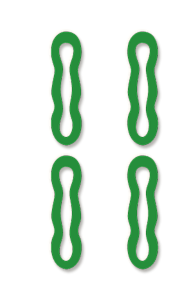
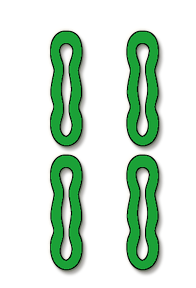
Polish tile symbols and AI marker for 1.0.14

Changed region(s): [[0.2449, 0.0938, 0.4592, 0.9688], [0.6429, 0.0938, 0.8571, 0.9688]]

diff --git a/tools/generate_cartoon_tile_symbols.py b/tools/generate_cartoon_tile_symbols.py
@@ -16,29 +16,82 @@ from PIL import Image, ImageEnhance, ImageFilter
 ROOT = Path(__file__).resolve().parents[1]
 SOURCE_DIR = ROOT / "res/art/tiles"
 OUT_DIR = ROOT / "res/art/ui_3d_cartoon/tile_symbols"
-CONTACT_SHEET = ROOT / "docs/ui_baseline/mockups/tile_symbols_v1_contact_sheet.png"
+CONTACT_SHEET = ROOT / "docs/ui_baseline/mockups/tile_symbols_v1_0_14_contact_sheet.png"
 SYMBOL_SIZE = (196, 288)
 SUITS = ("tiao", "tong", "wan")
+SUIT_PARAMS = {
+	"tiao": {
+		"thicken": 3,
+		"alpha": 1.18,
+		"color": 1.08,
+		"contrast": 1.05,
+		"glow": 0.20,
+		"shadow": 0.38,
+		"highlight": 0.18,
+		"rim": (32, 100, 42, 0),
+	},
+	"tong": {
+		"thicken": 3,
+		"alpha": 1.15,
+		"color": 1.10,
+		"contrast": 1.08,
+		"glow": 0.18,
+		"shadow": 0.36,
+		"highlight": 0.16,
+		"rim": (36, 78, 120, 0),
+	},
+	"wan": {
+		"thicken": 5,
+		"alpha": 1.22,
+		"color": 1.06,
+		"contrast": 1.10,
+		"glow": 0.16,
+		"shadow": 0.42,
+		"highlight": 0.16,
+		"rim": (110, 30, 44, 0),
+	},
+}
 
 
-def soften_symbol(source_path: Path) -> Image.Image:
+def _mask(alpha: Image.Image, multiplier: float, blur: float = 0.0) -> Image.Image:
+	mask = alpha.filter(ImageFilter.GaussianBlur(blur)) if blur > 0.0 else alpha
+	return mask.point(lambda value: min(255, int(value * multiplier)))
+
+
+def soften_symbol(source_path: Path, suit: str) -> Image.Image:
+	params = SUIT_PARAMS[suit]
 	source = Image.open(source_path).convert("RGBA").resize(SYMBOL_SIZE, Image.Resampling.LANCZOS)
 	r, g, b, alpha = source.split()
 
-	soft_alpha = alpha.filter(ImageFilter.GaussianBlur(0.35)).point(lambda value: min(255, int(value * 1.12)))
+	expanded_alpha = alpha.filter(ImageFilter.MaxFilter(int(params["thicken"])))
+	soft_alpha = expanded_alpha.filter(ImageFilter.GaussianBlur(0.25)).point(
+		lambda value: min(255, int(value * float(params["alpha"])))
+	)
 	symbol = Image.merge("RGBA", (r, g, b, soft_alpha))
-	symbol = ImageEnhance.Color(symbol).enhance(0.92)
-	symbol = ImageEnhance.Contrast(symbol).enhance(0.96)
+	symbol = ImageEnhance.Color(symbol).enhance(float(params["color"]))
+	symbol = ImageEnhance.Contrast(symbol).enhance(float(params["contrast"]))
 
 	glow = Image.new("RGBA", SYMBOL_SIZE, (255, 235, 190, 0))
-	glow.putalpha(soft_alpha.filter(ImageFilter.GaussianBlur(1.4)).point(lambda value: int(value * 0.26)))
+	glow.putalpha(_mask(soft_alpha, float(params["glow"]), 1.8))
 
-	shadow = Image.new("RGBA", SYMBOL_SIZE, (30, 25, 15, 0))
-	shadow.putalpha(soft_alpha.filter(ImageFilter.GaussianBlur(1.2)).point(lambda value: int(value * 0.32)))
+	contact_shadow = Image.new("RGBA", SYMBOL_SIZE, (28, 24, 16, 0))
+	contact_shadow.putalpha(_mask(soft_alpha, float(params["shadow"]), 1.35))
+
+	pressed_shadow = Image.new("RGBA", SYMBOL_SIZE, (52, 42, 24, 0))
+	pressed_shadow.putalpha(_mask(expanded_alpha, 0.20, 0.45))
+
+	rim = Image.new("RGBA", SYMBOL_SIZE, tuple(params["rim"]))
+	rim.putalpha(_mask(expanded_alpha, 0.24, 0.15))
+
+	highlight = Image.new("RGBA", SYMBOL_SIZE, (255, 250, 210, 0))
+	highlight.putalpha(_mask(alpha, float(params["highlight"]), 0.35))
 
 	composed = Image.new("RGBA", SYMBOL_SIZE, (0, 0, 0, 0))
-	composed.alpha_composite(shadow, (2, 3))
+	composed.alpha_composite(contact_shadow, (3, 4))
+	composed.alpha_composite(pressed_shadow, (1, 2))
 	composed.alpha_composite(glow, (-1, -1))
+	composed.alpha_composite(highlight, (-1, -2))
+	composed.alpha_composite(rim, (1, 1))
 	composed.alpha_composite(symbol)
 	return composed
 
@@ -61,7 +114,7 @@ def main() -> None:
 	OUT_DIR.mkdir(parents=True, exist_ok=True)
 	for suit in SUITS:
 		for rank in range(1, 10):
-			soften_symbol(SOURCE_DIR / f"{suit}_{rank}.png").save(OUT_DIR / f"{suit}_{rank}.png")
+			soften_symbol(SOURCE_DIR / f"{suit}_{rank}.png", suit).save(OUT_DIR / f"{suit}_{rank}.png")
 	build_contact_sheet()
 	print(f"generated {OUT_DIR}")
 	print(f"contact_sheet {CONTACT_SHEET}")

diff --git a/docs/ui_baseline/UX_REFINEMENT_TARGET_AND_PROGRESS.md b/docs/ui_baseline/UX_REFINEMENT_TARGET_AND_PROGRESS.md
@@ -2,7 +2,7 @@
 
 > 状态：执行中  
 > 首版日期：2026-05-11  
-> 当前版本：1.0.13
+> 当前版本：1.0.14
 > 目标界面：主牌桌对局界面  
 > 设计方向：3D 卡通轻奢质感 Mahjong UI  
 > 执行原则：保留已校准布局，逐步资产化和统一视觉系统，每次版本更新后检查目标完成度并继续推进未完成任务。
@@ -32,18 +32,18 @@
 
 | 维度 | 目标标准 | 当前完成度 |
 |---|---|---:|
-| 布局稳定性 | 现有四家牌区、碰杠、胡牌、弃牌、按钮位置不被破坏，布局合同测试通过 | 84% |
+| 布局稳定性 | 现有四家牌区、碰杠、胡牌、弃牌、按钮位置不被破坏，布局合同测试通过 | 85% |
 | 桌面统一性 | 无明显分区底色/边框；桌面有连续绒布纹理、中心光、暗角，但无抢眼装饰线 | 72% |
 | 麻将牌本体 | 厚牌圆角、暖象牙牌面、绿色侧边、统一投影；正背面同一资产体系 | 73% |
-| 正面牌纹 | 条、筒、万、幺鸡等符号与新牌底同风格，线条柔和清晰，不像旧贴图 | 56% |
+| 正面牌纹 | 条、筒、万、幺鸡等符号与新牌底同风格，线条柔和清晰，不像旧贴图 | 64% |
 | 牌背 | 素玉牌背与桌面有足够分离度，无旧圈纹，阴影统一 | 76% |
 | 玩家信息 HUD | 贴边、清晰、弱面板化；字体、头像/定缺、分数、已胡状态统一 | 62% |
 | 操作按钮 | 右上/动作按钮采用同系列 3D 果冻/玉石按钮，触控目标清晰 | 64% |
-| AI 提示 | 提示框居中、大字、只显示内容；推荐牌用悬浮 3D 标记，不遮挡读牌 | 70% |
-| 可访问性 | 手机横屏玩家名/分数/状态可读；关键文字对比度足够，不仅靠颜色表达状态 | 68% |
+| AI 提示 | 提示框居中、大字、只显示内容；推荐牌用悬浮 3D 标记，不遮挡读牌 | 74% |
+| 可访问性 | 手机横屏玩家名/分数/状态可读；关键文字对比度足够，不仅靠颜色表达状态 | 69% |
 | 启动图一致性 | 整体材质、光照、圆润度、颜色气质接近启动界面 | 60% |
 
-当前综合完成度：约 73%。
+当前综合完成度：约 75%。
 达到 100% 的判定：上表所有维度均不低于 90%，且用户截图评审确认「整体接近预期效果」。
 
 ## 4. 执行步骤
@@ -166,15 +166,16 @@
 | 1.0.11 | `f272f7c` | 2026-05-11 | 重生成连续绒布桌面基底，加入柔和中心光、边缘暗角并降低程序叠加纹理线存在感 | `V17 LAYOUT CONTRACT OK` | 64% | 继续步骤 6/7：实机截图与移动端可读性检查 |
 | 1.0.12 | 本次截图验证版本 | 2026-05-11 | 建立正常渲染截图验收产物；继续降低牌体硬阴影和牌背黑边 | `V17 LAYOUT CONTRACT OK`；截图 `docs/ui_baseline/captures/main_scene_v1_0_12_candidate.png` | 70% | 继续步骤 2/3/4/7：手牌牌底、HUD 亮度和移动端检查 |
 | 1.0.13 | `e852919` | 2026-05-11 | 继续暖化厚玉牌底和手牌接触阴影；弱化玩家 HUD 面板感；统一右上/浮动按钮为更接近玉石胶囊的控件；AI 推荐锥体上移到推荐牌中心上方；补充 `1365x768` 移动端截图 | `V17 LAYOUT CONTRACT OK`；截图 `docs/ui_baseline/captures/main_scene_v1_0_13_candidate.png`、`docs/ui_baseline/captures/main_scene_v1_0_13_mobile_1365x768.png` | 73% | 继续步骤 2/4/5：正面牌纹精细化、HUD/按钮资产化、启动图一致性提升 |
+| 1.0.14 | 待提交 | 2026-05-11 | 重做牌纹柔化生成参数：条/筒/万按花色分别加厚、增强浮雕接触阴影和暖光；新增 `tile_symbols_v1_0_14_contact_sheet.png`；AI 推荐从压牌纹的旋转锥体改为牌面上沿安全区的玉金悬浮标记，并同步更新布局合同 | `V17 LAYOUT CONTRACT OK`；截图 `docs/ui_baseline/captures/main_scene_v1_0_14_candidate.png`、`docs/ui_baseline/captures/main_scene_v1_0_14_mobile_1365x768.png` | 75% | 继续步骤 3/4/5/6：统一大小牌材质比例、HUD/按钮资产化、进一步贴近启动图 |
 
 ## 6. 未完成任务池
 
-- 继续精修整套正面牌纹资源，优先提升万字字体厚度、幺鸡细节和筒/条图案的浮雕质感。
+- 继续精修整套正面牌纹资源；1.0.14 已按花色加厚并增强浮雕感，下一轮重点做幺鸡细节、万字红蓝上下结构的手工再设计，以及桌面小牌远景可读性。
 - 继续将本家手牌从“白片感”提升为明显厚玉牌；1.0.13 已补暖玉釉色和接触阴影，下一轮需进一步资产化牌面内凹和边角高光。
 - 统一桌面小牌、碰杠牌、胡牌、弃牌的材质比例；当前小牌与大牌仍存在明度和厚度差。
 - 继续弱化玩家信息框旧式大面板感，建立更像贴边玉牌/头像框的 HUD；下一轮重点做 HUD 资产或九宫格材质。
 - 继续重做右上角按钮和动作按钮为同系列 3D 控件；1.0.13 已增强胶囊风格，下一轮需补贴图级高光、按压和禁用态。
-- AI 推荐锥体已上移到推荐牌中心上方；下一轮检查实机动画层级，并考虑改成更轻的玉石/金色悬浮标记。
+- AI 推荐已从旋转锥体改为更轻的玉金悬浮标记，并放入牌面上沿安全区；下一轮继续检查动画层级和与危险/胡牌标记的区分度。
 - 继续减少桌面边缘像边框的装饰线，保留绒布暗角和中心光；下一轮结合实机截图判断是否还需压暗边缘。
 - `1365x768` 截图检查已补充；后续每个可评审版本继续保留 `2048x1152` 与 `1365x768` 双截图。
 

diff --git a/VERSION.md b/VERSION.md
@@ -1,6 +1,6 @@
 # Version
 
-Current app version: `1.0.13`
+Current app version: `1.0.14`
 
 ## Versioning Workflow
 
